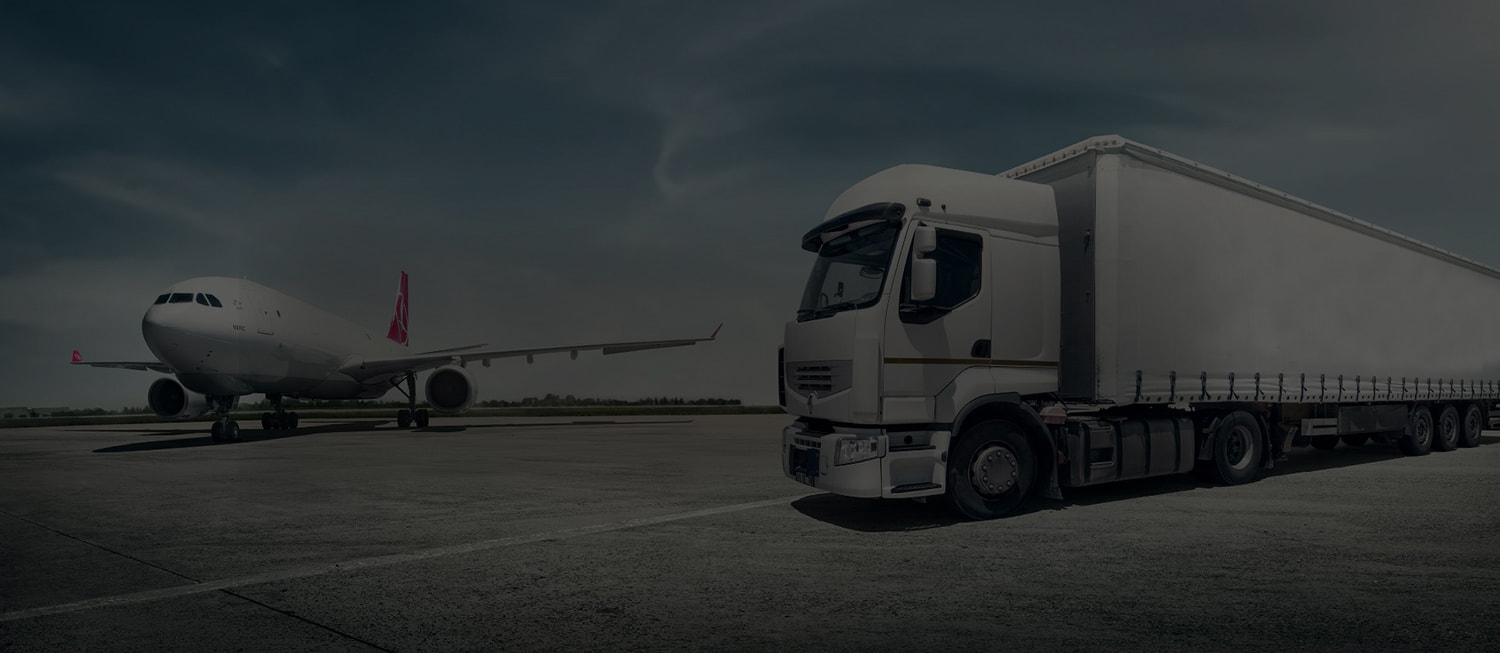
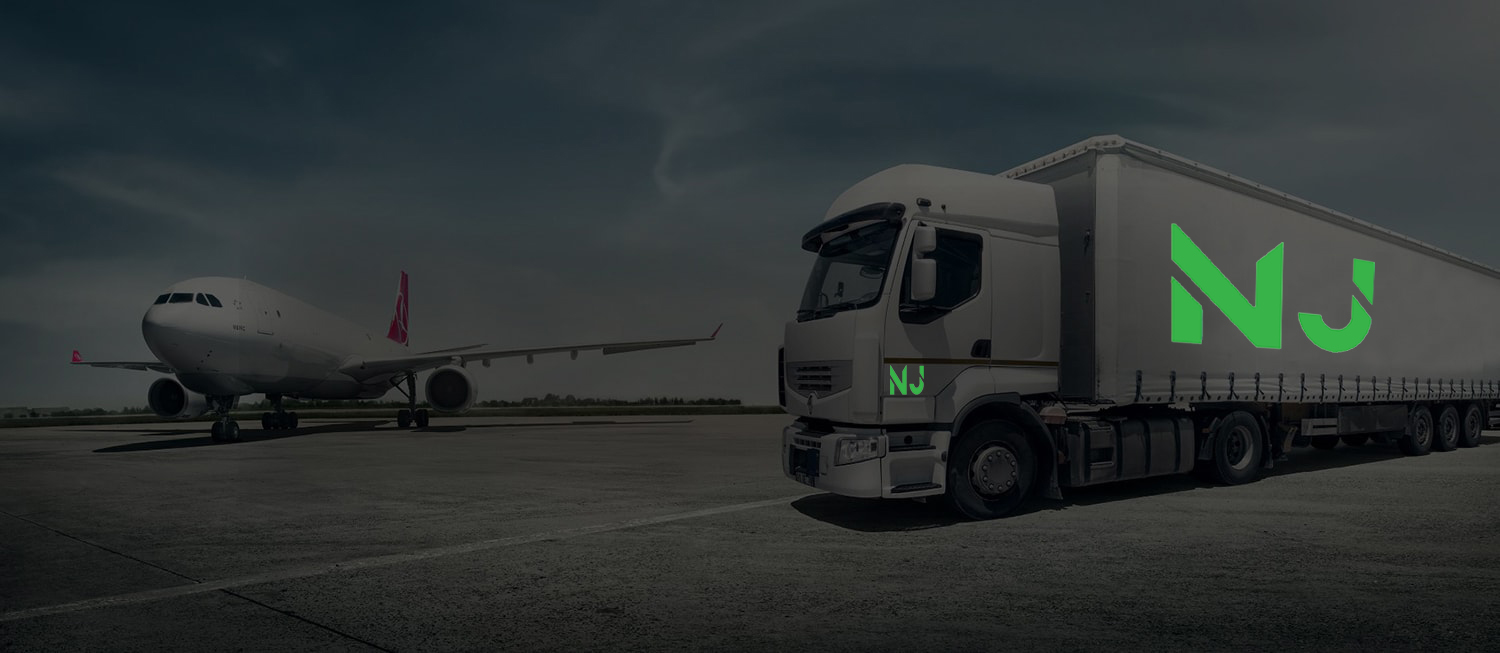
done

Changed region(s): [[0.7667, 0.3369, 0.92, 0.5513], [0.5827, 0.5513, 0.6133, 0.6126]]

diff --git a/about.html b/about.html
@@ -98,30 +98,17 @@
 
         <!--================About Studio Area =================-->
         <section class="about_studio_area">
+            <h1 class="text-center mb-md-5 pb-md-3"><b>NJ Transportation & Services</b></h1>
             <div class="container">
                 <div class="ab_studio_text">
-                    <h6 class="s_title">About Us</h6>
-                    <h5>NJ TRANSPORT PACKERS AND MOVERS director will oversee the move at every stage including
-                        personally
-                        meeting you in your home prior to the move to survey the effects to move and assess your needs.
-                        He/she will keep you or your employer informed of all developments, including the status of your
-                        move, and on the day of the move will call or visit to ensure everything goes smoothly.
-                    </h5>
-                    <h5>
-                        You can trust us as a most reliable services provider in India yet the best will cost you
-                        slightly higher than other ones who are serving cheap at cost but remains expensive in terms of
-                        quality in their services. We understand your needs not just like as an ordinary customers to us
-                        or your goods just like an item, even we help you in packing and unpacking your valuable items
-                        and hearty collectibles like because we know that each and every item or goods in your home is
-                        the lovable one for your soul.
-                    </h5>
-                    <h5>
-                        We will continually strive to provide a level of service that sets us aside as number 1 in our
-                        field. Through investment in our employees, our infrastructure and our customer base, we aim to
-                        empathize with our clients real needs to deliver logistic solutions and develop truly beneficial
-                        partnerships. In doing so through an open book policy, joint measurement, long term control on
-                        budgets and heightened communication skills we aim to deliver real added value that gives our
-                        customers the edge in their own marketplace.</h5>
+                    <h5>NJ Transportation & Services – A Dedicated and Reliable Transport Service in India</h5>
+                    <p>
+                        NJ Transportations & services is the best transport company in India delivering excellence for all types of businesses. We cater to the goods moving requirements of our esteemed customers across India. We strictly adhere to the latest safety and compliance features and provide quality service at an affordable rate. We have revolutionized transport service in India with our unique features which include cost-effectiveness, latest technology and excellent customer service. Our customers define us as the best in the industry of truck transportation services in India. We are well equipped to comply with the customized requirements of each of our customers.
+                    </p><br>
+                    <h5>Why Choose NJ Transportation & Services  for All Your goods Moving Requirements?</h5>
+                    <p>
+                        NJ Transportation & Services  is one of the leading and the most demanded truck transportation services in Gujarat. We have long experience in the logistic service in India, and thus we are well equipped to take up every challenging project and complete them on time. When you associate with us, you are working along with excellent quality, prompt and most secure goods transportation services in India. We combine our experience with the latest technology, infrastructure and tools to provide quality logistics services in India, irrespective of all common constraints. Get in touch with us today to avail our wide range of truck transportation services in India.
+                    </p>
                 </div>
             </div>
         </section>
@@ -130,8 +117,9 @@
         <!--================Our Speciallization Area =================-->
         <section class="speciallization_area ab_spec">
             <div class="container">
-                <h6 class="s_title">Our Services</h6>
-                <div class="row">
+                <h5 class="text-white">Our Specialties</h5>
+                    <p>Being the best transport company in India, we deliver your goods safe and on time. We have numerous types of vehicles with high fitness level, suitable to move all types of goods to anywhere in the country. We run transport services in India with GPS devices connected; hence our customers get the facility for real-time tracking.</p>
+                <div class="row mt-5">
                     <div class="col-lg-4 col-sm-6 mb-5">
                         <div class="spec_item">
                             <img src="assets/images/icon//spec-1.png" alt="">
@@ -154,7 +142,7 @@
                         <div class="spec_item">
                             <img src="assets/images/icon//spec-3.png" alt="">
                             <h4>Air & Sea Transportation</h4>
-                            <p>sheetal transport packers movers aside from the general road shipping, also offer sea
+                            <p>NJ Transportations & services packers movers aside from the general road shipping, also offer sea
                                 shipping and air shipping as well...</p>
                             <a class="view_btn white" href="about.html">Read More</a>
                         </div>
@@ -172,7 +160,7 @@
                         <div class="spec_item">
                             <img src="assets/images/icon//spec-3.png" alt="">
                             <h4>Industrial packaging</h4>
-                            <p>sheetal transport packers movers present industrial packaging to all our clients with the
+                            <p>NJ Transportations & services packers movers present industrial packaging to all our clients with the
                                 best quality services...</p>
                             <a class="view_btn white" href="about.html">Read More</a>
                         </div>
@@ -181,7 +169,7 @@
                         <div class="spec_item">
                             <img src="assets/images/icon//spec-3.png" alt="">
                             <h4>Insurance Services</h4>
-                            <p>sheetal transport packers movers offers different kind of insurance services for packing
+                            <p>NJ Transportations & services packers movers offers different kind of insurance services for packing
                                 and moving,it may be house shifting...</p>
                             <a class="view_btn white" href="about.html">Read More</a>
                         </div>

diff --git a/contact.html b/contact.html
@@ -141,9 +141,7 @@
             </div>
         </section>
         <!--================End Contact Area =================-->
-
-        <iframe
-            src="https://www.google.com/maps/embed?pb=!1m18!1m12!1m3!1d31105.742043542406!2d77.67277977363759!3d12.957913370338163!2m3!1f0!2f0!3f0!3m2!1i1024!2i768!4f13.1!3m3!1m2!1s0x3bae13b4551d0957%3A0x597894d77e1e4919!2sMarathahalli%2C%20Bengaluru%2C%20Karnataka!5e0!3m2!1sen!2sin!4v1601732736706!5m2!1sen!2sin"
+            <iframe src="https://www.google.com/maps/embed?pb=!1m18!1m12!1m3!1d3598.9963264966304!2d81.73139331501709!3d25.5717889837232!2m3!1f0!2f0!3f0!3m2!1i1024!2i768!4f13.1!3m3!1m2!1s0!2zMjXCsDM0JzE4LjQiTiA4McKwNDQnMDAuOSJF!5e0!3m2!1sen!2sin!4v1610895067595!5m2!1sen!2sin" 
             width="100%" height="350" frameborder="0" style="border:0;" allowfullscreen="" aria-hidden="false"
             tabindex="0"></iframe>
 

diff --git a/index.html b/index.html
@@ -166,7 +166,7 @@
 		<!--================Our Speciallization Area =================-->
 		<section class="speciallization_area">
 			<div class="container">
-				<h6 class="s_title">Our Services</h6>
+				<h6 class="s_title">Our Specialties</h6>
 				<div class="row">
 					<div class="col-lg-4 col-sm-6">
 						<div class="spec_item">
@@ -190,7 +190,7 @@
 						<div class="spec_item">
 							<img src="assets/images/icon//spec-3.png" alt="">
 							<h4>Air & Sea Transportation</h4>
-							<p>sheetal transport packers movers aside from the general road shipping, also offer sea
+							<p>NJ Transportations & services packers movers aside from the general road shipping, also offer sea
 								shipping and air shipping as well...</p>
 							<a class="view_btn white" href="about.html">Read More</a>
 						</div>
